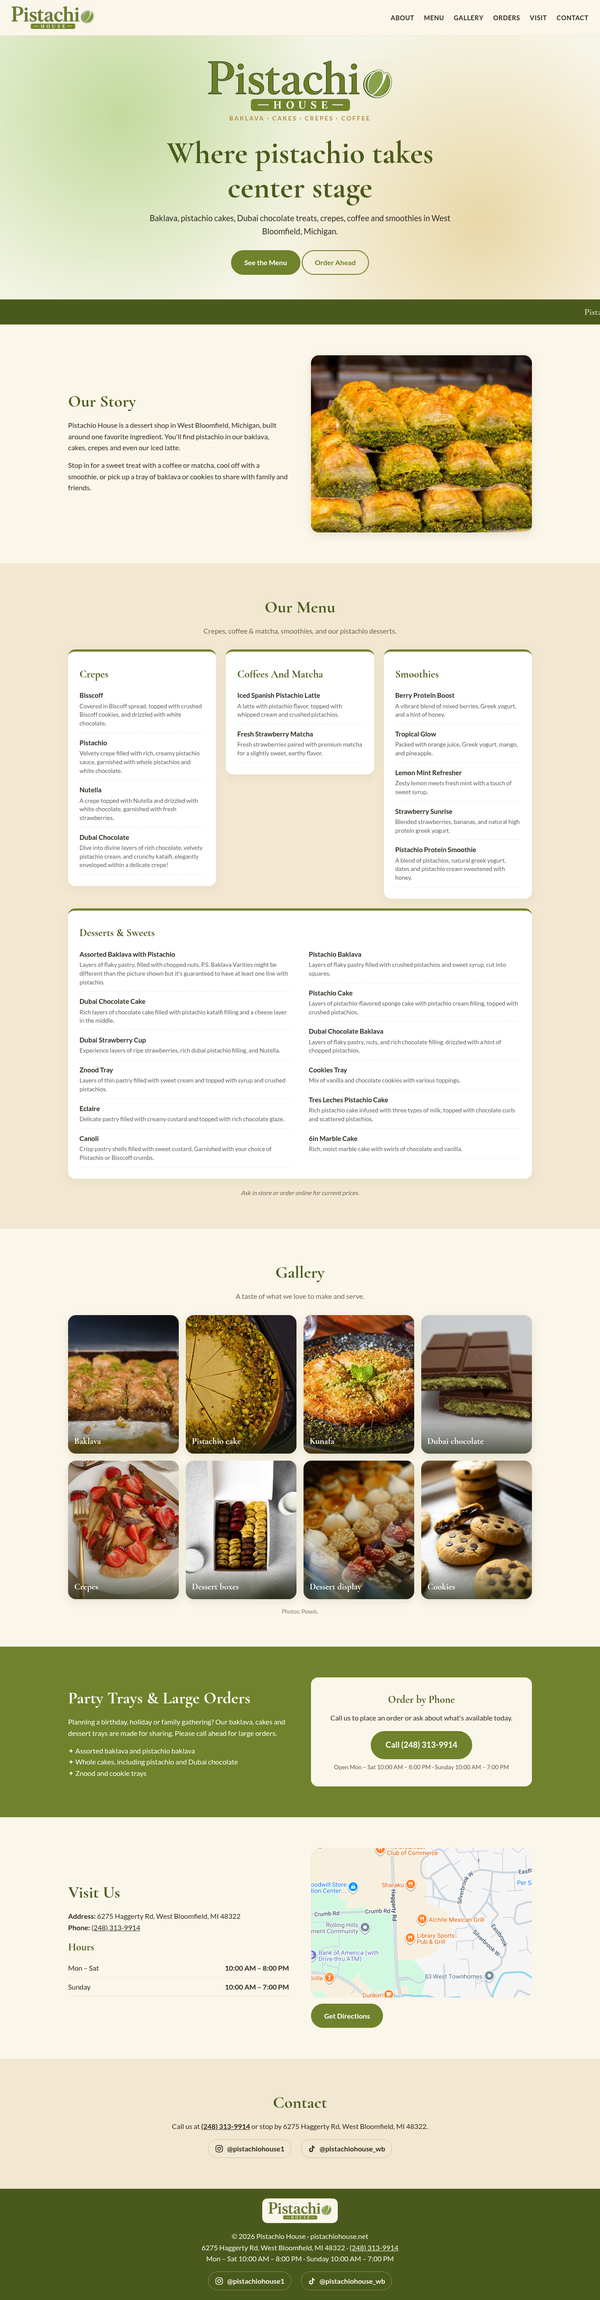
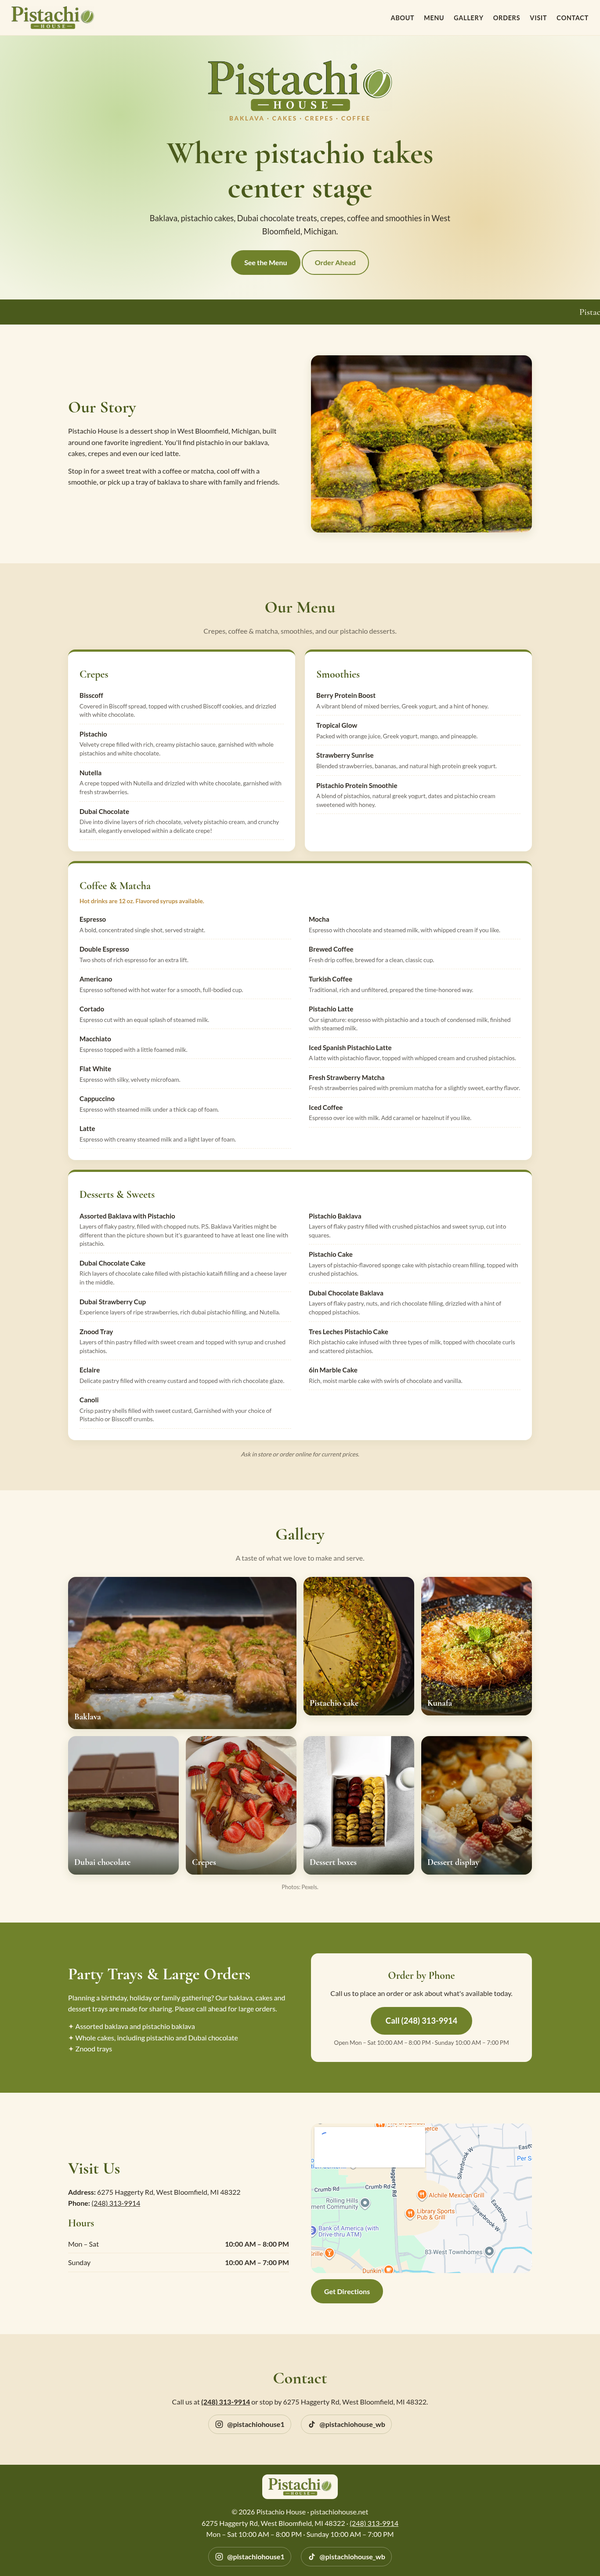
Menu: add coffee bar drinks, remove Cookies Tray and Lemon Mint Refresher, drop cookies gallery tile

diff --git a/index.html b/index.html
@@ -14,16 +14,16 @@
 <h1>Where pistachio takes center stage</h1><p>Baklava, pistachio cakes, Dubai chocolate treats, crepes, coffee and smoothies in West Bloomfield, Michigan.</p>
 <a class="btn" href="#menu">See the Menu</a> <a class="btn ghost" href="#orders">Order Ahead</a></div></section>
 <div class="ribbon"><span>Pistachio Baklava ✦ Dubai Chocolate ✦ Pistachio Cake ✦ Crepes ✦ Pistachio Latte ✦ Smoothies ✦ Dessert Trays ✦</span></div>
-<section id="about" class="wrap two"><div><h2>Our Story</h2><p>Pistachio House is a dessert shop in West Bloomfield, Michigan, built around one favorite ingredient. You'll find pistachio in our baklava, cakes, crepes and even our iced latte.</p><p>Stop in for a sweet treat with a coffee or matcha, cool off with a smoothie, or pick up a tray of baklava or cookies to share with family and friends.</p></div>
+<section id="about" class="wrap two"><div><h2>Our Story</h2><p>Pistachio House is a dessert shop in West Bloomfield, Michigan, built around one favorite ingredient. You'll find pistachio in our baklava, cakes, crepes and even our iced latte.</p><p>Stop in for a sweet treat with a coffee or matcha, cool off with a smoothie, or pick up a tray of baklava to share with family and friends.</p></div>
 <figure class="photo about-photo"><img src="images/about-pistachio-baklava.webp" alt="Rows of pistachio-topped baklava in a dessert display" width="1200" height="960" loading="lazy"></figure></section>
 <section id="menu" class="cream"><div class="wrap"><h2 class="c">Our Menu</h2><p class="c sub">Crepes, coffee &amp; matcha, smoothies, and our pistachio desserts.</p><div class="grid menu-grid">
 <div class="card"><h3>Crepes</h3><ul><li><div class="mi"><span class="mn">Bisscoff</span></div><p class="md">Covered in Biscoff spread, topped with crushed Biscoff cookies, and drizzled with white chocolate.</p></li><li><div class="mi"><span class="mn">Pistachio</span></div><p class="md">Velvety crepe filled with rich, creamy pistachio sauce, garnished with whole pistachios and white chocolate.</p></li><li><div class="mi"><span class="mn">Nutella</span></div><p class="md">A crepe topped with Nutella and drizzled with white chocolate, garnished with fresh strawberries.</p></li><li><div class="mi"><span class="mn">Dubai Chocolate</span></div><p class="md">Dive into divine layers of rich chocolate, velvety pistachio cream, and crunchy kataifi, elegantly enveloped within a delicate crepe!</p></li></ul></div>
-<div class="card"><h3>Coffees And Matcha</h3><ul><li><div class="mi"><span class="mn">Iced Spanish Pistachio Latte</span></div><p class="md">A latte with pistachio flavor, topped with whipped cream and crushed pistachios.</p></li><li><div class="mi"><span class="mn">Fresh Strawberry Matcha</span></div><p class="md">Fresh strawberries paired with premium matcha for a slightly sweet, earthy flavor.</p></li></ul></div>
-<div class="card"><h3>Smoothies</h3><ul><li><div class="mi"><span class="mn">Berry Protein Boost</span></div><p class="md">A vibrant blend of mixed berries, Greek yogurt, and a hint of honey.</p></li><li><div class="mi"><span class="mn">Tropical Glow</span></div><p class="md">Packed with orange juice, Greek yogurt, mango, and pineapple.</p></li><li><div class="mi"><span class="mn">Lemon Mint Refresher</span></div><p class="md">Zesty lemon meets fresh mint with a touch of sweet syrup.</p></li><li><div class="mi"><span class="mn">Strawberry Sunrise</span></div><p class="md">Blended strawberries, bananas, and natural high protein greek yogurt.</p></li><li><div class="mi"><span class="mn">Pistachio Protein Smoothie</span></div><p class="md">A blend of pistachios, natural greek yogurt, dates and pistachio cream sweetened with honey.</p></li></ul></div>
-<div class="card"><h3>Desserts &amp; Sweets</h3><ul><li><div class="mi"><span class="mn">Assorted Baklava with Pistachio</span></div><p class="md">Layers of flaky pastry, filled with chopped nuts. P.S. Baklava Varities might be different than the picture shown but it&#x27;s guaranteed to have at least one line with pistachio.</p></li><li><div class="mi"><span class="mn">Dubai Chocolate Cake</span></div><p class="md">Rich layers of chocolate cake filled with pistachio kataifi filling and a cheese layer in the middle.</p></li><li><div class="mi"><span class="mn">Dubai Strawberry Cup</span></div><p class="md">Experience layers of ripe strawberries, rich dubai pistachio filling, and Nutella.</p></li><li><div class="mi"><span class="mn">Znood Tray</span></div><p class="md">Layers of thin pastry filled with sweet cream and topped with syrup and crushed pistachios.</p></li><li><div class="mi"><span class="mn">Eclaire</span></div><p class="md">Delicate pastry filled with creamy custard and topped with rich chocolate glaze.</p></li><li><div class="mi"><span class="mn">Canoli</span></div><p class="md">Crisp pastry shells filled with sweet custard, Garnished with your choice of Pistachio or Bisscoff crumbs.</p></li><li><div class="mi"><span class="mn">Pistachio Baklava</span></div><p class="md">Layers of flaky pastry filled with crushed pistachios and sweet syrup, cut into squares.</p></li><li><div class="mi"><span class="mn">Pistachio Cake</span></div><p class="md">Layers of pistachio-flavored sponge cake with pistachio cream filling, topped with crushed pistachios.</p></li><li><div class="mi"><span class="mn">Dubai Chocolate Baklava</span></div><p class="md">Layers of flaky pastry, nuts, and rich chocolate filling, drizzled with a hint of chopped pistachios.</p></li><li><div class="mi"><span class="mn">Cookies Tray</span></div><p class="md">Mix of vanilla and chocolate cookies with various toppings.</p></li><li><div class="mi"><span class="mn">Tres Leches Pistachio Cake</span></div><p class="md">Rich pistachio cake infused with three types of milk, topped with chocolate curls and scattered pistachios.</p></li><li><div class="mi"><span class="mn">6in Marble Cake</span></div><p class="md">Rich, moist marble cake with swirls of chocolate and vanilla.</p></li></ul></div>
+<div class="card"><h3>Smoothies</h3><ul><li><div class="mi"><span class="mn">Berry Protein Boost</span></div><p class="md">A vibrant blend of mixed berries, Greek yogurt, and a hint of honey.</p></li><li><div class="mi"><span class="mn">Tropical Glow</span></div><p class="md">Packed with orange juice, Greek yogurt, mango, and pineapple.</p></li><li><div class="mi"><span class="mn">Strawberry Sunrise</span></div><p class="md">Blended strawberries, bananas, and natural high protein greek yogurt.</p></li><li><div class="mi"><span class="mn">Pistachio Protein Smoothie</span></div><p class="md">A blend of pistachios, natural greek yogurt, dates and pistachio cream sweetened with honey.</p></li></ul></div>
+<div class="card wide"><h3>Coffee &amp; Matcha</h3><p class="card-note">Hot drinks are 12 oz. Flavored syrups available.</p><ul><li><div class="mi"><span class="mn">Espresso</span></div><p class="md">A bold, concentrated single shot, served straight.</p></li><li><div class="mi"><span class="mn">Double Espresso</span></div><p class="md">Two shots of rich espresso for an extra lift.</p></li><li><div class="mi"><span class="mn">Americano</span></div><p class="md">Espresso softened with hot water for a smooth, full-bodied cup.</p></li><li><div class="mi"><span class="mn">Cortado</span></div><p class="md">Espresso cut with an equal splash of steamed milk.</p></li><li><div class="mi"><span class="mn">Macchiato</span></div><p class="md">Espresso topped with a little foamed milk.</p></li><li><div class="mi"><span class="mn">Flat White</span></div><p class="md">Espresso with silky, velvety microfoam.</p></li><li><div class="mi"><span class="mn">Cappuccino</span></div><p class="md">Espresso with steamed milk under a thick cap of foam.</p></li><li><div class="mi"><span class="mn">Latte</span></div><p class="md">Espresso with creamy steamed milk and a light layer of foam.</p></li><li><div class="mi"><span class="mn">Mocha</span></div><p class="md">Espresso with chocolate and steamed milk, with whipped cream if you like.</p></li><li><div class="mi"><span class="mn">Brewed Coffee</span></div><p class="md">Fresh drip coffee, brewed for a clean, classic cup.</p></li><li><div class="mi"><span class="mn">Turkish Coffee</span></div><p class="md">Traditional, rich and unfiltered, prepared the time-honored way.</p></li><li><div class="mi"><span class="mn">Pistachio Latte</span></div><p class="md">Our signature: espresso with pistachio and a touch of condensed milk, finished with steamed milk.</p></li><li><div class="mi"><span class="mn">Iced Spanish Pistachio Latte</span></div><p class="md">A latte with pistachio flavor, topped with whipped cream and crushed pistachios.</p></li><li><div class="mi"><span class="mn">Fresh Strawberry Matcha</span></div><p class="md">Fresh strawberries paired with premium matcha for a slightly sweet, earthy flavor.</p></li><li><div class="mi"><span class="mn">Iced Coffee</span></div><p class="md">Espresso over ice with milk. Add caramel or hazelnut if you like.</p></li></ul></div>
+<div class="card wide"><h3>Desserts &amp; Sweets</h3><ul><li><div class="mi"><span class="mn">Assorted Baklava with Pistachio</span></div><p class="md">Layers of flaky pastry, filled with chopped nuts. P.S. Baklava Varities might be different than the picture shown but it&#x27;s guaranteed to have at least one line with pistachio.</p></li><li><div class="mi"><span class="mn">Dubai Chocolate Cake</span></div><p class="md">Rich layers of chocolate cake filled with pistachio kataifi filling and a cheese layer in the middle.</p></li><li><div class="mi"><span class="mn">Dubai Strawberry Cup</span></div><p class="md">Experience layers of ripe strawberries, rich dubai pistachio filling, and Nutella.</p></li><li><div class="mi"><span class="mn">Znood Tray</span></div><p class="md">Layers of thin pastry filled with sweet cream and topped with syrup and crushed pistachios.</p></li><li><div class="mi"><span class="mn">Eclaire</span></div><p class="md">Delicate pastry filled with creamy custard and topped with rich chocolate glaze.</p></li><li><div class="mi"><span class="mn">Canoli</span></div><p class="md">Crisp pastry shells filled with sweet custard, Garnished with your choice of Pistachio or Bisscoff crumbs.</p></li><li><div class="mi"><span class="mn">Pistachio Baklava</span></div><p class="md">Layers of flaky pastry filled with crushed pistachios and sweet syrup, cut into squares.</p></li><li><div class="mi"><span class="mn">Pistachio Cake</span></div><p class="md">Layers of pistachio-flavored sponge cake with pistachio cream filling, topped with crushed pistachios.</p></li><li><div class="mi"><span class="mn">Dubai Chocolate Baklava</span></div><p class="md">Layers of flaky pastry, nuts, and rich chocolate filling, drizzled with a hint of chopped pistachios.</p></li><li><div class="mi"><span class="mn">Tres Leches Pistachio Cake</span></div><p class="md">Rich pistachio cake infused with three types of milk, topped with chocolate curls and scattered pistachios.</p></li><li><div class="mi"><span class="mn">6in Marble Cake</span></div><p class="md">Rich, moist marble cake with swirls of chocolate and vanilla.</p></li></ul></div>
 </div><p class="c note">Ask in store or order online for current prices.</p></div></section>
-<section id="gallery" class="wrap"><h2 class="c">Gallery</h2><p class="c sub">A taste of what we love to make and serve.</p><div class="gal"><figure class="photo"><img src="images/gallery-baklava-tray.webp" alt="Pistachio baklava squares with flaky golden layers" width="900" height="600" loading="lazy"><figcaption>Baklava</figcaption></figure><figure class="photo"><img src="images/gallery-pistachio-cake.webp" alt="Pistachio cake topped with crushed pistachios" width="900" height="1350" loading="lazy"><figcaption>Pistachio cake</figcaption></figure><figure class="photo"><img src="images/gallery-kunafa.webp" alt="Kunafa garnished with crushed pistachios on a decorative plate" width="900" height="601" loading="lazy"><figcaption>Kunafa</figcaption></figure><figure class="photo"><img src="images/gallery-dubai-chocolate.webp" alt="Chocolate bar with a green pistachio filling" width="900" height="600" loading="lazy"><figcaption>Dubai chocolate</figcaption></figure><figure class="photo"><img src="images/gallery-crepe.webp" alt="Crepe topped with sliced strawberries and chocolate" width="900" height="1012" loading="lazy"><figcaption>Crepes</figcaption></figure><figure class="photo"><img src="images/gallery-gift-box.webp" alt="Open white box filled with assorted cookies" width="900" height="1124" loading="lazy"><figcaption>Dessert boxes</figcaption></figure><figure class="photo"><img src="images/gallery-display-case.webp" alt="Display case of small tarts, pastries and chocolates" width="900" height="600" loading="lazy"><figcaption>Dessert display</figcaption></figure><figure class="photo"><img src="images/gallery-cookies.webp" alt="Chocolate chip cookies on a tray" width="900" height="1350" loading="lazy"><figcaption>Cookies</figcaption></figure></div><p class="c credit">Photos: Pexels.</p></section>
-<section id="orders" class="green"><div class="wrap two"><div><h2>Party Trays &amp; Large Orders</h2><p>Planning a birthday, holiday or family gathering? Our baklava, cakes and dessert trays are made for sharing. Please call ahead for large orders.</p><ul class="ticks"><li>Assorted baklava and pistachio baklava</li><li>Whole cakes, including pistachio and Dubai chocolate</li><li>Znood and cookie trays</li></ul></div>
+<section id="gallery" class="wrap"><h2 class="c">Gallery</h2><p class="c sub">A taste of what we love to make and serve.</p><div class="gal"><figure class="photo"><img src="images/gallery-baklava-tray.webp" alt="Pistachio baklava squares with flaky golden layers" width="900" height="600" loading="lazy"><figcaption>Baklava</figcaption></figure><figure class="photo"><img src="images/gallery-pistachio-cake.webp" alt="Pistachio cake topped with crushed pistachios" width="900" height="1350" loading="lazy"><figcaption>Pistachio cake</figcaption></figure><figure class="photo"><img src="images/gallery-kunafa.webp" alt="Kunafa garnished with crushed pistachios on a decorative plate" width="900" height="601" loading="lazy"><figcaption>Kunafa</figcaption></figure><figure class="photo"><img src="images/gallery-dubai-chocolate.webp" alt="Chocolate bar with a green pistachio filling" width="900" height="600" loading="lazy"><figcaption>Dubai chocolate</figcaption></figure><figure class="photo"><img src="images/gallery-crepe.webp" alt="Crepe topped with sliced strawberries and chocolate" width="900" height="1012" loading="lazy"><figcaption>Crepes</figcaption></figure><figure class="photo"><img src="images/gallery-gift-box.webp" alt="Open white box filled with assorted cookies" width="900" height="1124" loading="lazy"><figcaption>Dessert boxes</figcaption></figure><figure class="photo"><img src="images/gallery-display-case.webp" alt="Display case of small tarts, pastries and chocolates" width="900" height="600" loading="lazy"><figcaption>Dessert display</figcaption></figure></div><p class="c credit">Photos: Pexels.</p></section>
+<section id="orders" class="green"><div class="wrap two"><div><h2>Party Trays &amp; Large Orders</h2><p>Planning a birthday, holiday or family gathering? Our baklava, cakes and dessert trays are made for sharing. Please call ahead for large orders.</p><ul class="ticks"><li>Assorted baklava and pistachio baklava</li><li>Whole cakes, including pistachio and Dubai chocolate</li><li>Znood trays</li></ul></div>
 <div class="callbox"><h3>Order by Phone</h3><p>Call us to place an order or ask about what's available today.</p><a class="btn big" href="tel:+12483139914">Call (248) 313-9914</a><p class="small">Open Mon – Sat 10:00 AM – 8:00 PM · Sunday 10:00 AM – 7:00 PM</p></div></div></section>
 <section id="visit" class="wrap two"><div><h2>Visit Us</h2><p><b>Address:</b> 6275 Haggerty Rd, West Bloomfield, MI 48322<br><b>Phone:</b> <a href="tel:+12483139914">(248) 313-9914</a></p><h3>Hours</h3><table class="hours"><tr><td>Mon – Sat</td><td>10:00 AM – 8:00 PM</td></tr><tr><td>Sunday</td><td>10:00 AM – 7:00 PM</td></tr></table></div>
 <div class="mapbox"><iframe title="Map to Pistachio House" src="https://maps.google.com/maps?q=6275+Haggerty+Rd,+West+Bloomfield,+MI+48322&amp;output=embed" loading="lazy" referrerpolicy="no-referrer-when-downgrade"></iframe><a class="btn" target="_blank" rel="noopener" href="https://www.google.com/maps/dir/?api=1&amp;destination=6275+Haggerty+Rd,+West+Bloomfield,+MI+48322">Get Directions</a></div></section>

diff --git a/styles.css b/styles.css
@@ -31,14 +31,14 @@ footer a,#visit a:not(.btn),#contact a{color:inherit}
 .foot-logo{height:56px;width:auto;margin-bottom:10px;background:var(--c);padding:8px 14px;border-radius:12px}
 footer a{color:inherit}
 @media(max-width:780px){.logo img{height:40px}}
-.menu-grid{grid-template-columns:repeat(auto-fit,minmax(250px,1fr));align-items:start}
+.menu-grid{grid-template-columns:repeat(2,1fr);align-items:stretch}
 .menu-grid .card li{display:block;padding:10px 0}
 .mi{display:flex;justify-content:space-between;gap:10px;font-weight:700}
 .md{font-size:.85rem;opacity:.75;margin-top:3px;line-height:1.45}
 .note{font-size:.85rem;opacity:.7;margin-top:22px;font-style:italic}
-.menu-grid .card:last-child{grid-column:1/-1}.menu-grid .card:last-child ul{columns:2;column-gap:40px}
+.menu-grid .card.wide{grid-column:1/-1}.menu-grid .card.wide ul{columns:2;column-gap:40px}
 .menu-grid .card li{break-inside:avoid}
-@media(max-width:780px){.menu-grid .card:last-child ul{columns:1}}
+@media(max-width:780px){.menu-grid .card.wide ul{columns:1}}
 .photo{margin:0;position:relative;overflow:hidden;border-radius:18px;background:var(--c2);box-shadow:0 6px 20px rgba(74,90,28,.12)}
 .photo img{width:100%;height:100%;object-fit:cover;display:block;transition:transform .5s}
 .photo:hover img{transform:scale(1.04)}
@@ -55,3 +55,6 @@ footer a{color:inherit}
 .social a{display:inline-flex;align-items:center;gap:8px;text-decoration:none;font-weight:700;color:var(--gd);padding:8px 14px;border-radius:30px;border:1px solid rgba(74,90,28,.25);transition:background .2s}
 .social a:hover{background:rgba(112,130,43,.12)}
 footer .social a{color:var(--c);border-color:rgba(251,246,234,.35)}footer .social a:hover{background:rgba(251,246,234,.12)}
+.card-note{font-size:.85rem;color:var(--gold);font-weight:700;margin:-2px 0 8px}
+.gal .photo:first-child{grid-column:span 2;aspect-ratio:auto}
+@media(max-width:780px){.menu-grid{grid-template-columns:1fr}.gal .photo:first-child{aspect-ratio:2/1}}

diff --git a/CREDITS.md b/CREDITS.md
@@ -14,4 +14,3 @@ They were resized and compressed to WebP (quality 80) for the web. The About pho
 | images/gallery-crepe.webp | Crepe with strawberries and chocolate | solod_sha | https://www.pexels.com/photo/sliced-strawberries-on-crepe-in-a-white-plate-7664084/ |
 | images/gallery-gift-box.webp | Box of assorted cookies | Ali Dashti | https://www.pexels.com/photo/box-with-variety-of-cookies-17517693/ |
 | images/gallery-display-case.webp | Pastry display case | Svitlana Shakalova | https://www.pexels.com/photo/assorted-french-pastries-on-display-at-bakery-31101247/ |
-| images/gallery-cookies.webp | Chocolate chip cookies | Meryem Şahin | https://www.pexels.com/photo/close-up-of-chocolate-chip-cookies-on-a-tray-20558713/ |
